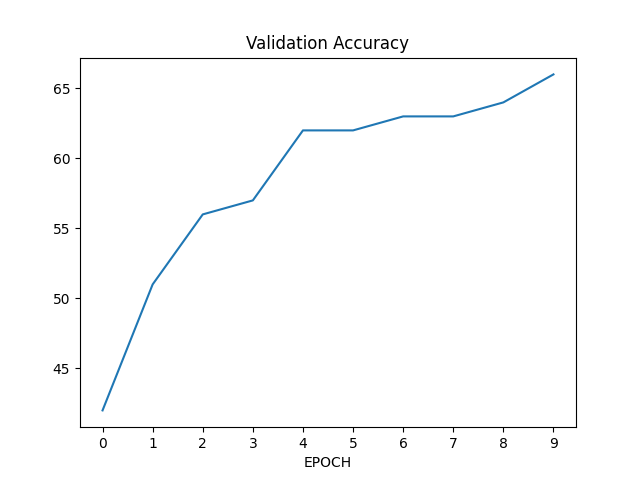
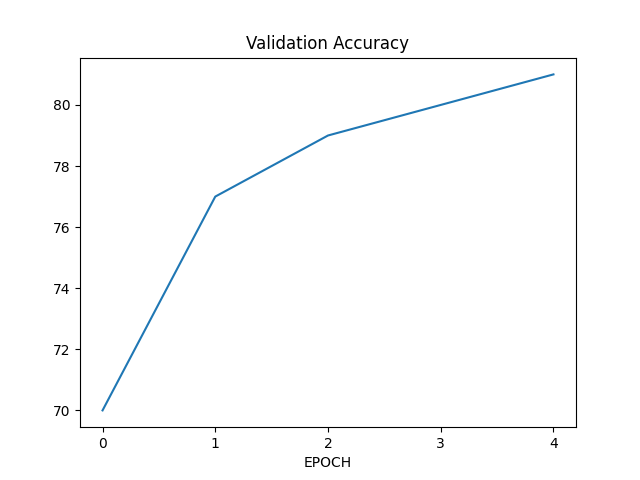
Adding more convulation layers and batch normalization to improve accuracy

diff --git a/main.py b/main.py
@@ -15,16 +15,35 @@ import torch.optim as optim
 class Net(nn.Module):
     def __init__(self):
         super().__init__()
-        self.conv1 = nn.Conv2d(3, 6, 5)
         self.pool = nn.MaxPool2d(2, 2)
-        self.conv2 = nn.Conv2d(6, 16, 5)
-        self.fc1 = nn.Linear(16 * 5 * 5, 120)
-        self.fc2 = nn.Linear(120, 84)
-        self.fc3 = nn.Linear(84, 10)
+
+        self.conv1 = nn.Conv2d(3, 32, kernel_size=3, padding=1)
+
+        self.conv2 = nn.Conv2d(32, 64, 3, 1, 1)
+        self.bn2 = nn.BatchNorm2d(64)
+
+        self.conv3 = nn.Conv2d(64, 128, kernel_size=3, stride=1, padding=1)
+
+        self.conv4 = nn.Conv2d(128, 128, kernel_size=3, stride=1, padding=1)
+        self.bn4 = nn.BatchNorm2d(128)
+
+        self.conv5 = nn.Conv2d(128, 256, kernel_size=3, stride=1, padding=1)
+
+        self.conv6 = nn.Conv2d(256, 256, kernel_size=3, stride=1, padding=1)
+        self.bn6 = nn.BatchNorm2d(256)
+
+
+        self.fc1 = nn.Linear(256 * 4 * 4, 1024)
+        self.fc2 = nn.Linear(1024, 512)
+        self.fc3 = nn.Linear(512, 10)
 
     def forward(self, x):
-        x = self.pool(F.relu(self.conv1(x)))
-        x = self.pool(F.relu(self.conv2(x)))
+        x = F.relu((self.conv1(x)))
+        x = self.bn2(self.pool(F.relu(self.conv2(x)))) #64 x 16 x 16
+        x = F.relu((self.conv3(x)))
+        x = self.bn4(self.pool(F.relu(self.conv4(x)))) #128 x 8 x 8
+        x = F.relu((self.conv5(x)))
+        x = self.bn6(self.pool(F.relu(self.conv6(x)))) #256 x 4 x 4
         x = torch.flatten(x, 1) 
         x = F.relu(self.fc1(x))
         x = F.relu(self.fc2(x))
@@ -53,10 +72,10 @@ def get_loss():
 def get_optimizer(net):
     return optim.SGD(net.parameters(), lr=0.001, momentum=0.9)
 
-def plot(value):
+def plot(value, epoch):
     plt.plot(value)
     plt.xlabel("EPOCH")
-    plt.xticks(np.arange(0,10 ,1))
+    plt.xticks(np.arange(0,epoch ,1))
     plt.title("Validation Accuracy")
     plt.show()
 
@@ -97,8 +116,8 @@ def train(net, train_loader, test_loader, epochs):
     return accuracies
 
 if __name__ == "__main__":
-    __epoch = 10
+    __epoch = 5
     __train_loader, __test_loader = load()
     net = Net()
     accuracies = train(net, __train_loader, __test_loader, __epoch)
-    plot(accuracies)
+    plot(accuracies, __epoch)
